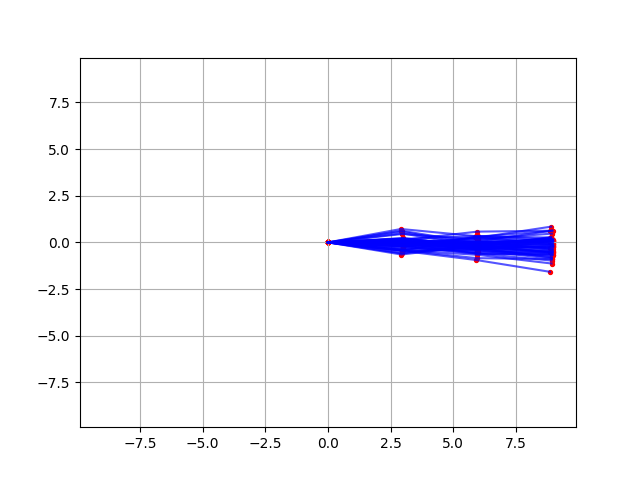
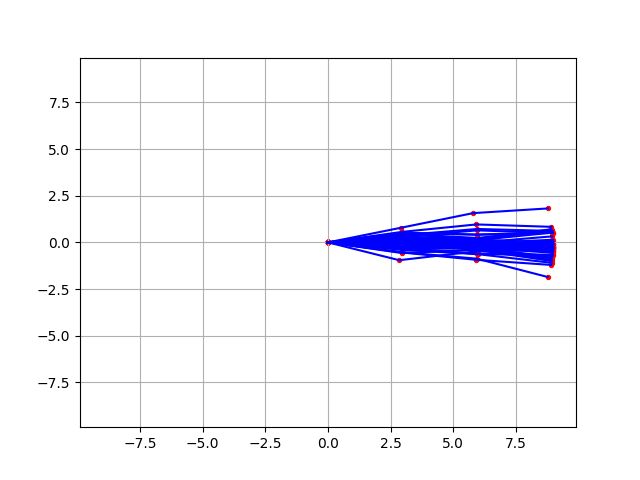
method for vizualizing contour lines enclosing q-quantile of endpoints added

Changed region(s): [[0.5312, 0.4375, 0.875, 0.5938], [0.8125, 0.4062, 0.875, 0.4375]]

diff --git a/src/robotsim_test.py b/src/robotsim_test.py
@@ -25,7 +25,7 @@ if __name__ == '__main__':
     ####################################################################################################################
 
     # model_name = 'CVAE'
-    model_name = 'INN'
+    model_name = 'CVAE'
     robot_dof = '3DOF'
 
     ####################################################################################################################
@@ -33,7 +33,12 @@ if __name__ == '__main__':
     ####################################################################################################################
 
     if model_name == 'CVAE':
-        config = load_config('robotsim_cVAE.yaml', 'configs/')
+        if robot_dof == '2DOF':
+            config = load_config('robotsim_cVAE_2DOF.yaml', 'configs/')
+        elif robot_dof == '3DOF':
+            config = load_config('robotsim_cVAE_3DOF.yaml', 'configs/')
+        else:
+            raise Exception('DOF not supported for this model')
     elif model_name == 'INN':
         if robot_dof == '2DOF':
             config = load_config('robotsim_INN_2DOF.yaml', 'configs/')
@@ -86,12 +91,12 @@ if __name__ == '__main__':
     # TEST MODEL
     ####################################################################################################################
 
-    if model_name == 'CVAE':
-        test_CVAE(model, config, test_dataloader, device)
-    elif model_name == 'INN':
-        test_INN(model, config, test_dataloader, device)
-    else:
-        raise Exception('Model not supported')
+    # if model_name == 'CVAE':
+    #     test_CVAE(model, config, test_dataloader, device)
+    # elif model_name == 'INN':
+    #     test_INN(model, config, test_dataloader, device)
+    # else:
+    #     raise Exception('Model not supported')
 
     ####################################################################################################################
     # VISUALISATION
@@ -151,6 +156,11 @@ if __name__ == '__main__':
     preds_joints = np.array(preds_joints)
     robot.plot(joint_states=preds_joints, path='figures/generated_configurations_' + model_name + '_' +
                                                str(config['dof']) + '.png', separate_plots=False)
+
+    # Plot contour lines enclose the region conaining 97% of the end points
+    resimulation_tcp = robot.forward(joint_states=preds_joints)
+    plot_contour_lines(resimulation_tcp, percentile=0.97)
+
 
     if model_name == 'CVAE':
         # visualise latent space

diff --git a/src/utils.py b/src/utils.py
@@ -1,6 +1,9 @@
 import torch
 import yaml
 import os
+import matplotlib.pyplot as plt
+import numpy as np
+from scipy.spatial import ConvexHull, convex_hull_plot_2d
 
 # Function to load yaml configuration file
 def load_config(config_name, config_path):
@@ -38,3 +41,48 @@ def postprocess(x):
         _x[:, i] = torch.atan2(input=x[:, i], other=x[:, num_joints+i])
 
     return _x
+
+def plot_contour_lines(points, percentile=0.97):
+
+    q_quantile = np.quantile(points, q=percentile, axis=0)
+    distance = np.linalg.norm(points - q_quantile, axis=1)
+
+    # sorts distance array such that the first k elements are the smallest
+    samples = points.shape[0]
+    k = int(percentile * samples)
+    # print('k: ', k)
+    idx = np.argpartition(distance, k)
+    idx_k = idx[:k]
+
+    # selects
+    selected_points = torch.index_select(input=torch.Tensor(points), dim=0, index=torch.LongTensor(idx_k)).numpy()
+    hull = ConvexHull(selected_points)
+
+    fig = plt.figure()
+    plt.scatter(points[:, 0], points[:, 1], c='g')
+    # plt.scatter(q_quantile[0], q_quantile[1], c='r')
+    # plt.scatter(selected_points[:, 0], selected_points[:, 1], c='b')
+    for simplex in hull.simplices:
+        plt.plot(selected_points[simplex, 0], selected_points[simplex, 1], 'k-')
+    plt.show()
+    # plt.savefif(PATH + '')
+
+# Testing example
+if __name__ == '__main__':
+
+    use_gpu = False
+    num_samples = 100
+    percentile = 0.97
+
+    device = torch.device("cuda:0" if use_gpu and torch.cuda.is_available() else "cpu")
+
+    # x = torch.randn(num_samples, 1, device=device)
+    # y = torch.randn(num_samples, 1, device=device)
+    #
+    # points = torch.cat((x, y), dim=1)
+    # numpy_points = points.numpy()
+
+    points = np.random.rand(num_samples, 2)
+
+    plot_contour_lines(points, percentile=percentile)
+
